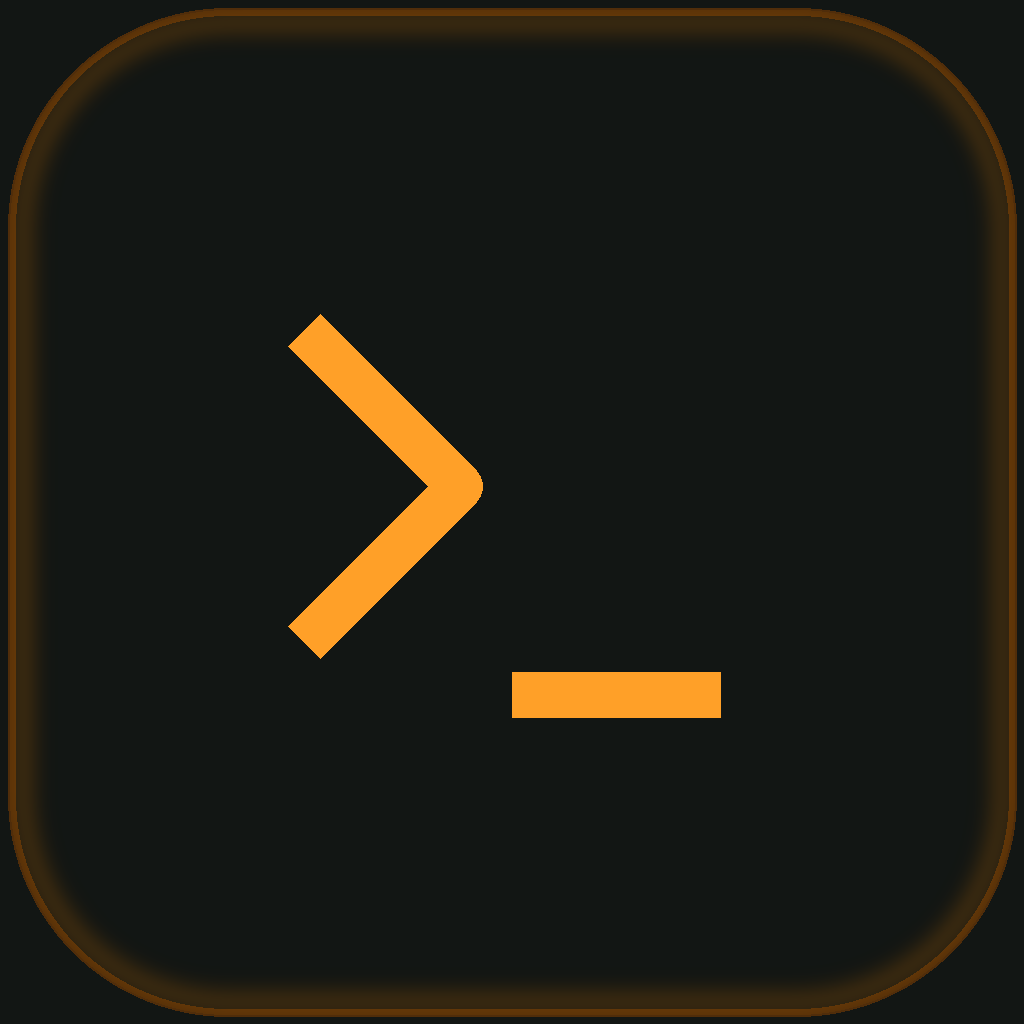
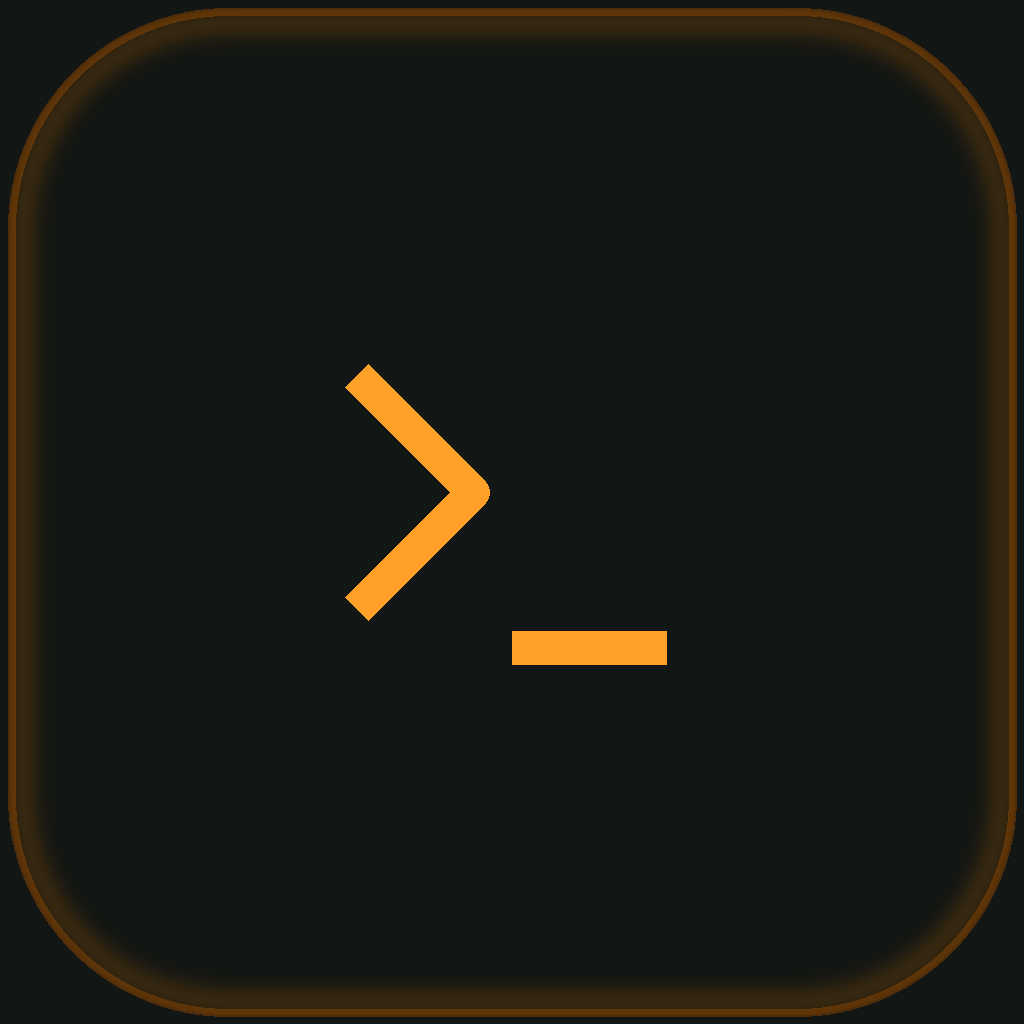
fix(mobile): ANDROID_INNER_PAD を 200 → 280 に増加して余白を視覚的に確保
差が 37px（3.6%）→ 94px（9.2%）になり、デバイス上で明確に確認できる余白になる。

Changed region(s): [[0.2812, 0.3125, 0.4688, 0.6562], [0.5, 0.5938, 0.7188, 0.7188], [0.4688, 0.4688, 0.5, 0.5]]

diff --git a/scripts/generate-icons.py b/scripts/generate-icons.py
@@ -60,8 +60,8 @@ IOS_INNER_PAD = 150
 
 # Android adaptive icon 用
 # Android の safe zone は 108dp 中 72dp（約 66.7%）= 1024px 換算で約 170px インセット。
-# ANDROID_INNER_PAD = 200 でシンボルが safe zone に十分収まる余裕を確保する。
-ANDROID_INNER_PAD = 200
+# ANDROID_INNER_PAD = 280 でシンボルが safe zone に余裕を持って収まり、視覚的な余白を確保する。
+ANDROID_INNER_PAD = 280
 
 # ── ヘルパー ─────────────────────────────────────────────────────────────────
 
